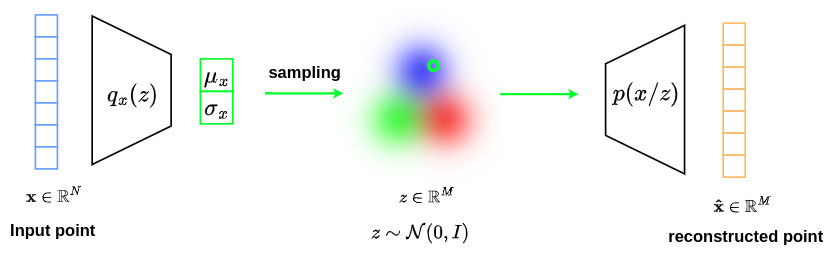
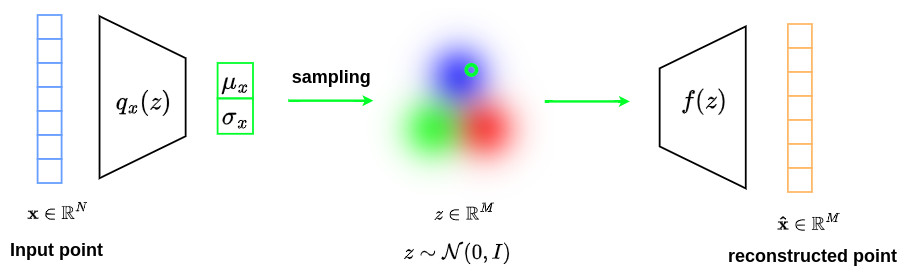
finally, I made it !

diff --git a/collections/_tutorials/2022-09-12-tutorial-vae.md b/collections/_tutorials/2022-09-12-tutorial-vae.md
@@ -26,7 +26,7 @@ categories: autoencoder, encoder, decoder, VAE
   - [Evidence lower bound](#evidence-lower-bound)
   - [ELBO reformulation](#elbo-reformulation)  
   - [From ELBO to VAE](#from-elbo-to-vae)    
-<!--  - [VAE network architecture](#vae-network-architecture)-->
+  - [And what about backpropagation?](#and-what-about-backpropagation)
 
 &nbsp;
 
@@ -359,12 +359,6 @@ Here is a summary of what have been done so far.
 
 4. The minimization of the KL divergence leads to the minimization of the following equation:
 
-<!--
-<div style="background-color:#d7efd5; text-align:center; vertical-align: middle; padding:5px 0;">
-$$\mathcal{L} =  \mathbb{E}_{z\sim q(z)} \left[log\left(p(x/z)\right)\right] - D_{KL}\left(q(z)||p(z)\right)$$
-</div>
--->
-
 $$\left(f^*,g^*,h^*\right) = \underset{(f,g,h)}{\arg\min} \,\,\, \left( \mathbb{E}_{z\sim q_x} \left[\|x-f(z)\|^2\right] + D_{KL}\left(q_x(z)\parallel p(z)\right) \right)$$
 
 
@@ -380,11 +374,11 @@ The minimization of the above equation can be handled by the following graph.
 
 **Let's work on the decoder** 
 
-The decoder will be in charge of the optimization of $$p(x/z)$$, i.e. the first part of the above equation. This is done through a neural network with the following loss function:
+The decoder will be in charge of the optimization of $$p(x/z)$$, i.e. the first part of the above equation. This is done through a neural network that will optimize the $$f$$ function through the minimization of the following loss function:
 
-$$\mathcal{L}_{decoder} = \|x-\hat{x}\|^2 \,=\, \|x-d(z)\|^2$$
+$$\mathcal{L}_{decoder} = \|x-\hat{x}\|^2 \,=\, \|x-\underbrace{f(z)}_{\text{decoder}}\|^2$$
 
-where $$d(z)$$ is the ouput of the decoder. This correponds to the classical $$L_2$$ loss function!
+where $$f(z)$$ is the ouput of the decoder. This correponds to the classical $$L_2$$ loss function!
 
 &nbsp;
 
@@ -394,9 +388,9 @@ where $$d(z)$$ is the ouput of the decoder. This correponds to the classical $$L
 
 **Let's work on the encoder** 
 
-The encoder will be in charge of the optimization of $$p(z/x)$$, i.e. the second part of the above equation. This is done through a neural network with the following loss function:
+The encoder will be in charge of the optimization of $$p(z/x)$$, i.e. the second part of the above equation. This is done through a neural network that will optimize $$g$$ and $$h$$ functions through the minimization of the following loss function:
 
-$$\mathcal{L}_{encoder} = D_{KL}\left(q_x(z) \parallel \mathcal{N}(0,I)\right)$$
+$$\mathcal{L}_{encoder} = D_{KL}(\underbrace{q_x(z)}_{encoder} \parallel \mathcal{N}(0,I))$$
 
 A very important point here is that we must think in terms of probability function since we want to fit two distributions. In other words, the encoder must generate the parameters of the distribution that will generate the $$z$$ sample. 
 
@@ -408,14 +402,54 @@ The graph below shows the final network structure used in the VAE formalism.
 
 ![](/collections/images/vae/vae_final_representation_2.jpg)
 
-The following equation is also used as a loss term:
+&nbsp;
+
+The following equation is used as a loss term:
 
 $$\text{loss}=\|x-\hat{x}\|^2 \,+\, D_{KL}\left(\mathcal{N}\left(\mu_x,\sigma_x\right),\mathcal{N}\left(0,I\right)\right) $$
 
 &nbsp;
 
-<!--
-### VAE network architecture
--->
+### And what about backpropagation?
+
+So far, we have established a probabilistic framework that depends on three functions, $$f$$, $$g$$ and $$h$$ that are modeled by neural networks in an encoder-decoder architecture. In practice, g and h are not defined by two completely independent networks but share a part of their architecture and their weights so that we have:
+
+$$g(x)=g_2(g_1(x)) \quad\quad\quad\quad h(x)=h_2(g_1(x))$$
+
+Moreover, for simplification purposes, we also make the assumption that $$q_x(z)$$ is a multidimensional Gaussian distribution with diagonal covariance matrix (i.e. variables independence assumption). $$h(x)$$ is thus simply a vector containing the diagonal elements of the covariance matrix and as the same size as $$g(x)$$.
+
+![](/collections/images/vae/encoder_final_structure.jpg)
+
+&nbsp;
+
+We also need to be very careful about the way we sample from the distribution returned by the encoder during the training.
+
+>>The sampling process has to be expressed in a way that allows the error to be backpropagated through the network.
+
+&nbsp;
+
+A ***reparametrisation trick*** is used to make the gradient descent possible despite the random sampling. It consists in using the fact that if $$z$$ is a random variable following a Gaussian distribution with mean $$g(x)$$ and with covariance $$H(x)=h(x) \cdot h'(x)$$ then it can be expressed as:
+
+$$z = h(x) \zeta + g(x) \quad\quad\quad \zeta \sim \mathcal{N}(0,I)$$
+
+&nbsp;
+
+This parametrization trick can be summarized as follows:
+
+![](/collections/images/vae/parametrization_trick.jpg)
+
+&nbsp;
+
+The graph below shows the final network used to implement VAE with the possibility to perform backpropagation.
+
+![](/collections/images/vae/vae_backpropagation_architecture.jpg)
+
+&nbsp;
+
+We recall that the following equation is used as the loss term:
+
+$$\text{loss} = \|x-\hat{x}\|^2 \,+\, D_{KL}\left(\mathcal{N}\left(\mu_x,\sigma_x\right),\mathcal{N}\left(0,I\right)\right) $$
+
+$$\text{loss} = \|x-f(z)\|^2 \,+\, D_{KL}\left(\mathcal{N}\left(g(x),h(x)\right),\mathcal{N}\left(0,I\right)\right) $$
 
 
